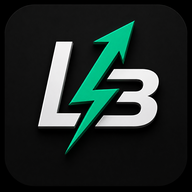
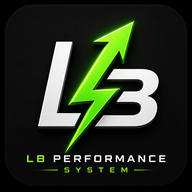
refactor: update branding assets and clean up code
Update application logo styling across components and remove redundant retry logic in the Supabase service.

diff --git a/src/App.tsx b/src/App.tsx
@@ -385,14 +385,12 @@ const Login: FC<{
         animate={{ opacity: 1, y: 0 }}
         className="w-full max-w-md premium-card p-10 md:p-14 relative z-10 border-slate-800/40"
       >
-        <div className="flex flex-col items-center mb-10">
-          <div className="w-28 h-28 rounded-3xl shadow-[0_0_60px_rgba(57,255,20,0.45)] mb-6 border border-emerald-500/50 overflow-hidden bg-slate-950 flex items-center justify-center shrink-0">
-            <img
-              src="/192x192.png"
-              className="w-full h-full object-cover scale-110"
-              alt="LB Logo"
-            />
-          </div>
+        <div className="flex flex-col items-center mb-12">
+          <img
+            src="/192x192.png"
+            className="w-20 h-20 rounded-[2rem] shadow-[0_0_50px_rgba(57,255,20,0.4)] mb-8 object-contain"
+            alt="Logo"
+          />
           <h1 className="text-3xl font-black tracking-tighter uppercase italic text-white leading-none">
             Elite <span className="text-brand-primary">Hub</span>
           </h1>
@@ -501,10 +499,10 @@ const ReportPage: FC<{
 
       <div className="mt-10 pt-6 border-t border-slate-100 flex justify-between items-center bg-white shrink-0">
         <div className="flex items-center gap-4">
-          <div className="w-10 h-10 bg-slate-950 rounded-xl flex items-center justify-center shadow-lg overflow-hidden border border-emerald-500/20 shrink-0">
+          <div className="w-10 h-10 bg-slate-900 rounded-xl flex items-center justify-center shadow-lg">
             <img
               src="/192x192.png"
-              className="w-full h-full object-cover scale-110"
+              className="w-6 h-6 object-contain"
               alt="LB"
             />
           </div>
@@ -546,10 +544,10 @@ const ReportHeader: FC<{
     
     <div className="relative z-10 w-full">
       <div className="flex items-center gap-4 mb-4">
-        <div className="w-12 h-12 rounded-xl bg-slate-950 flex items-center justify-center shadow-md overflow-hidden border border-emerald-500/30 shrink-0">
+        <div className="w-12 h-12 rounded-xl bg-white flex items-center justify-center p-1 shadow-md">
           <img
             src="/192x192.png"
-            className="w-full h-full object-cover scale-110"
+            className="w-10 h-10 object-contain"
             alt="Logo"
           />
         </div>
@@ -750,6 +748,7 @@ const EliteHubApp: FC<{
       return {
         id: ath.id,
         name: ath.name,
+        photoUrl: ath.photoUrl,
         esporte: ath.modality || "Geral",
         acute,
         chronic,
@@ -1322,13 +1321,11 @@ const EliteHubApp: FC<{
       <div className="h-screen flex flex-col items-center justify-center bg-[#020617] text-[#10b981] font-black uppercase tracking-[0.3em] md:tracking-[0.5em] p-4 text-center relative overflow-hidden">
         <div className="absolute top-1/2 left-1/2 -translate-x-1/2 -translate-y-1/2 w-[70%] h-[70%] bg-[#10b981]/5 rounded-full blur-[140px] animate-pulse"></div>
         <div className="relative z-10 flex flex-col items-center">
-          <div className="w-28 h-28 rounded-3xl mb-8 shadow-[0_0_60px_rgba(16,185,129,0.5)] overflow-hidden border border-emerald-500/50 bg-slate-950 animate-bounce flex items-center justify-center shrink-0">
-            <img
-              src="/192x192.png"
-              className="w-full h-full object-cover scale-110"
-              alt="LB Logo"
-            />
-          </div>
+          <img
+            src="/192x192.png"
+            className="w-24 h-24 rounded-[2.5rem] mb-8 shadow-[0_0_60px_rgba(16,185,129,0.4)] animate-bounce object-contain"
+            alt="LB Logo"
+          />
           <div className="space-y-2">
             <h1 className="text-2xl md:text-3xl tracking-[0.4em] font-black italic">
               LB PERFORMANCE
@@ -1400,15 +1397,13 @@ const EliteHubApp: FC<{
   if (loading && athletes.length === 0) {
     return (
       <div className="min-h-screen bg-brand-dark flex flex-col items-center justify-center p-8 bg-gradient-to-br from-brand-dark to-slate-900">
-        <div className="relative w-24 h-24">
+        <div className="relative">
           <div className="w-24 h-24 border-4 border-brand-primary/20 border-t-brand-primary rounded-full animate-spin"></div>
-          <div className="absolute inset-1.5 rounded-full overflow-hidden bg-slate-950 flex items-center justify-center">
-            <img
-              src="/192x192.png"
-              className="w-full h-full object-cover scale-110"
-              alt="Logo"
-            />
-          </div>
+          <img
+            src="/192x192.png"
+            className="absolute inset-0 w-full h-full p-2 object-contain"
+            alt="Logo"
+          />
         </div>
         <p className="mt-10 text-brand-primary font-black uppercase tracking-[0.4em] animate-pulse text-xs text-center">
           Sincronizando Banco de Dados Elite...
@@ -1599,12 +1594,8 @@ const EliteHubApp: FC<{
               {/* Premium Performance Pro Logo Bracket & Theme Toggle */}
               <div className="hidden md:flex items-center justify-between mb-10 mt-2 px-2">
                 <div className="flex items-center gap-3.5">
-                  <div className="w-10 h-10 rounded-xl flex items-center justify-center shadow-[0_0_20px_rgba(16,185,129,0.25)] border border-emerald-300/20 shrink-0 overflow-hidden">
-                    <img
-                      src="/192x192.png"
-                      className="w-full h-full object-cover scale-110"
-                      alt="Logo"
-                    />
+                  <div className="w-10 h-10 rounded-xl bg-gradient-to-br from-brand-primary to-emerald-600 flex items-center justify-center text-slate-950 font-black text-2xl italic shadow-[0_0_20px_rgba(16,185,129,0.25)] border border-emerald-300/20 shrink-0">
+                    P
                   </div>
                   <div className="flex flex-col">
                     <span className="font-extrabold text-xs tracking-[0.14em] uppercase text-white/90 leading-none">
@@ -1984,10 +1975,10 @@ const EliteHubApp: FC<{
 
                   <div className="relative z-10 min-w-0">
                     <div className="flex items-center gap-3 sm:gap-4">
-                      <div className="w-12 h-12 sm:w-14 sm:h-14 rounded-xl sm:rounded-2xl bg-slate-950 flex items-center justify-center border border-emerald-500/30 overflow-hidden shrink-0 shadow-lg">
+                      <div className="w-10 h-10 sm:w-12 sm:h-12 rounded-xl sm:rounded-2xl bg-brand-primary/10 flex items-center justify-center border border-brand-primary/20 shrink-0">
                         <img
                           src="/192x192.png"
-                          className="w-full h-full object-cover scale-110"
+                          className="w-6 h-6 sm:w-8 sm:h-8 object-contain"
                           alt="Logo"
                         />
                       </div>
@@ -2384,13 +2375,22 @@ const EliteHubApp: FC<{
                                       <td className="py-4 px-4">
                                         <div className="flex items-center gap-3">
                                           <div
-                                            className={`w-8 h-8 rounded-full flex items-center justify-center text-xs font-black select-none transition-transform duration-300 ${
+                                            className={`w-9 h-9 rounded-full flex items-center justify-center text-xs font-black select-none transition-transform duration-300 overflow-hidden shrink-0 border ${
                                               ath.isSelected
-                                                ? "bg-gradient-to-br from-amber-500 to-yellow-600 text-slate-950 scale-105"
-                                                : "bg-slate-800 text-slate-300"
+                                                ? "bg-gradient-to-br from-amber-500 to-yellow-600 text-slate-950 scale-105 border-amber-400"
+                                                : "bg-slate-800 text-slate-300 border-slate-700/60"
                                             }`}
                                           >
-                                            {initials}
+                                            {ath.photoUrl ? (
+                                              <img
+                                                src={ath.photoUrl}
+                                                alt={ath.name}
+                                                className="w-full h-full object-cover"
+                                                referrerPolicy="no-referrer"
+                                              />
+                                            ) : (
+                                              initials
+                                            )}
                                           </div>
                                           <div>
                                             <span className={ath.isSelected ? "text-xs font-black text-amber-450 block" : "text-xs font-black text-white hover:text-amber-550 block"}>

diff --git a/src/services/supabaseService.ts b/src/services/supabaseService.ts
@@ -105,80 +105,6 @@ export const logError = (context: string, error: any) => {
   }
 };
 
-const safeSupabaseUpsert = async (tableName: string, rawPayload: any): Promise<{ data: any; error: any }> => {
-  const isArray = Array.isArray(rawPayload);
-  let payload = isArray ? rawPayload.map(item => ({ ...item })) : { ...rawPayload };
-
-  let attempts = 0;
-  let lastError: any = null;
-
-  while (attempts < 10) {
-    attempts++;
-    const { data, error } = await supabase.from(tableName).upsert(payload);
-    if (!error) return { data, error: null };
-
-    lastError = error;
-    const errorMsg = error.message || '';
-    console.warn(`[Supabase Upsert ${tableName}] Tentativa ${attempts} falhou:`, errorMsg);
-
-    // Extract column name from error message if present
-    const match = errorMsg.match(/Could not find the '([^']+)' column/i) ||
-                  errorMsg.match(/column "([^"]+)" of relation/i) ||
-                  errorMsg.match(/column "([^"]+)"/i) ||
-                  errorMsg.match(/column '([^']+)'/i);
-
-    let removed = false;
-    if (match && match[1]) {
-      const missingCol = match[1];
-      if (isArray) {
-        for (const item of payload) {
-          if (item.hasOwnProperty(missingCol)) {
-            delete item[missingCol];
-            removed = true;
-          }
-        }
-      } else {
-        if (payload.hasOwnProperty(missingCol)) {
-          delete payload[missingCol];
-          removed = true;
-        }
-      }
-    }
-
-    if (!removed) {
-      // Fallback check for common optional columns
-      const commonMissingCols = [
-        'photo_url', 'photoUrl', 'training_days', 'is_tournament_mode', 'periodization_start', 'periodization_end',
-        'injuries', 'weekly_frequency', 'cognitive_load', 'readiness_score', 'travel_fatigue', 'sleep_quality'
-      ];
-      for (const col of commonMissingCols) {
-        if (errorMsg.toLowerCase().includes(col.toLowerCase())) {
-          if (isArray) {
-            for (const item of payload) {
-              if (item.hasOwnProperty(col)) {
-                delete item[col];
-                removed = true;
-              }
-            }
-          } else {
-            if (payload.hasOwnProperty(col)) {
-              delete payload[col];
-              removed = true;
-            }
-          }
-          if (removed) break;
-        }
-      }
-    }
-
-    if (!removed) {
-      return { data: null, error: lastError };
-    }
-  }
-
-  return { data: null, error: lastError || new Error(`Exceeded max upsert retries for table ${tableName}`) };
-};
-
 export const supabaseService = {
   async loadAthletes(): Promise<Athlete[]> {
     if (!isSupabaseConfigured) {
@@ -527,7 +453,24 @@ export const supabaseService = {
       updated_at: new Date().toISOString()
     };
 
-    const { error: athleteError } = await safeSupabaseUpsert('athletes', payload);
+    let { error: athleteError } = await supabase
+      .from('athletes')
+      .upsert(payload);
+
+    if (athleteError && (athleteError.message?.toLowerCase().includes('photo_url') || athleteError.message?.toLowerCase().includes('training_days'))) {
+      if (athleteError.message?.toLowerCase().includes('photo_url')) {
+        console.warn('[Supabase] Tabela "athletes" não possui a coluna "photo_url". Retentando sem essa coluna...');
+        delete payload.photo_url;
+      }
+      if (athleteError.message?.toLowerCase().includes('training_days')) {
+        console.warn('[Supabase] Tabela "athletes" não possui a coluna "training_days". Retentando sem essa coluna...');
+        delete payload.training_days;
+      }
+      const retryResult = await supabase
+        .from('athletes')
+        .upsert(payload);
+      athleteError = retryResult.error;
+    }
 
     if (athleteError) {
       logError('[Supabase] Erro ao salvar atleta base:', athleteError);
@@ -545,7 +488,7 @@ export const supabaseService = {
       }
       
       if (athlete.wellness.length > 0) {
-        const wellnessPayload = athlete.wellness.map(w => ({
+        const { error: wError } = await supabase.from('wellness').upsert(athlete.wellness.map(w => ({
           id: w.id,
           athlete_id: athlete.id,
           date: w.date,
@@ -558,8 +501,7 @@ export const supabaseService = {
           readiness_score: w.readinessScore !== undefined ? w.readinessScore : (w as any).readiness_score,
           travel_fatigue: w.travelFatigue !== undefined ? w.travelFatigue : (w as any).travel_fatigue,
           sleep_quality: w.sleepQuality !== undefined ? w.sleepQuality : (w as any).sleep_quality
-        }));
-        const { error: wError } = await safeSupabaseUpsert('wellness', wellnessPayload);
+        })));
         if (wError) {
           logError('[Supabase] Erro ao salvar wellness:', wError);
           throw wError;
@@ -578,7 +520,7 @@ export const supabaseService = {
       }
 
       if (athlete.externalSessions.length > 0) {
-        const extPayload = athlete.externalSessions.map(es => ({
+        const { error: esError } = await supabase.from('external_sessions').upsert(athlete.externalSessions.map(es => ({
           id: es.id,
           athlete_id: athlete.id,
           date: es.date,
@@ -587,8 +529,7 @@ export const supabaseService = {
           rpe: es.rpe,
           notes: es.notes,
           load: es.load
-        }));
-        const { error: esError } = await safeSupabaseUpsert('external_sessions', extPayload);
+        })));
         if (esError) {
           logError('[Supabase] Erro ao salvar sessões externas:', esError);
           throw esError;

diff --git a/src/components/DynamicReportEngine.tsx b/src/components/DynamicReportEngine.tsx
@@ -38,10 +38,10 @@ export const ReportHeader: FC<{
     
     <div className="relative z-10 w-full">
       <div className="flex items-center gap-4 mb-4">
-        <div className="w-12 h-12 rounded-xl bg-slate-950 flex items-center justify-center shadow-md overflow-hidden border border-emerald-500/30 shrink-0">
+        <div className="w-12 h-12 rounded-xl bg-white flex items-center justify-center p-1 shadow-md">
           <img
             src="/192x192.png"
-            className="w-full h-full object-cover scale-110"
+            className="w-10 h-10 object-contain"
             alt="Logo"
           />
         </div>
@@ -91,10 +91,10 @@ export const ReportFooter: FC<{
 }) => (
   <div className="mt-10 pt-6 border-t border-slate-100 flex justify-between items-center bg-white shrink-0 text-left">
     <div className="flex items-center gap-4">
-      <div className="w-10 h-10 bg-slate-950 rounded-xl flex items-center justify-center shadow-lg overflow-hidden border border-emerald-500/20 shrink-0">
+      <div className="w-10 h-10 bg-slate-900 rounded-xl flex items-center justify-center shadow-lg">
         <img
           src="/192x192.png"
-          className="w-full h-full object-cover scale-110"
+          className="w-6 h-6 object-contain"
           alt="LB"
         />
       </div>

diff --git a/src/pages/Home.tsx b/src/pages/Home.tsx
@@ -19,8 +19,8 @@ export default function Home() {
         className="z-10 text-center max-w-2xl"
       >
         <div className="flex justify-center mb-8">
-          <div className="w-28 h-28 bg-slate-950 rounded-3xl flex items-center justify-center shadow-[0_0_60px_rgba(57,255,20,0.4)] border border-emerald-500/40 overflow-hidden shrink-0">
-            <img src="/192x192.png" className="w-full h-full object-cover scale-110" alt="LB Logo" />
+          <div className="w-24 h-24 bg-slate-900 rounded-[2.5rem] flex items-center justify-center shadow-[0_0_50px_rgba(57,255,20,0.3)] border border-brand-primary/20">
+            <img src="/192x192.png" className="w-16 h-16 object-contain" alt="LB Logo" />
           </div>
         </div>
 
